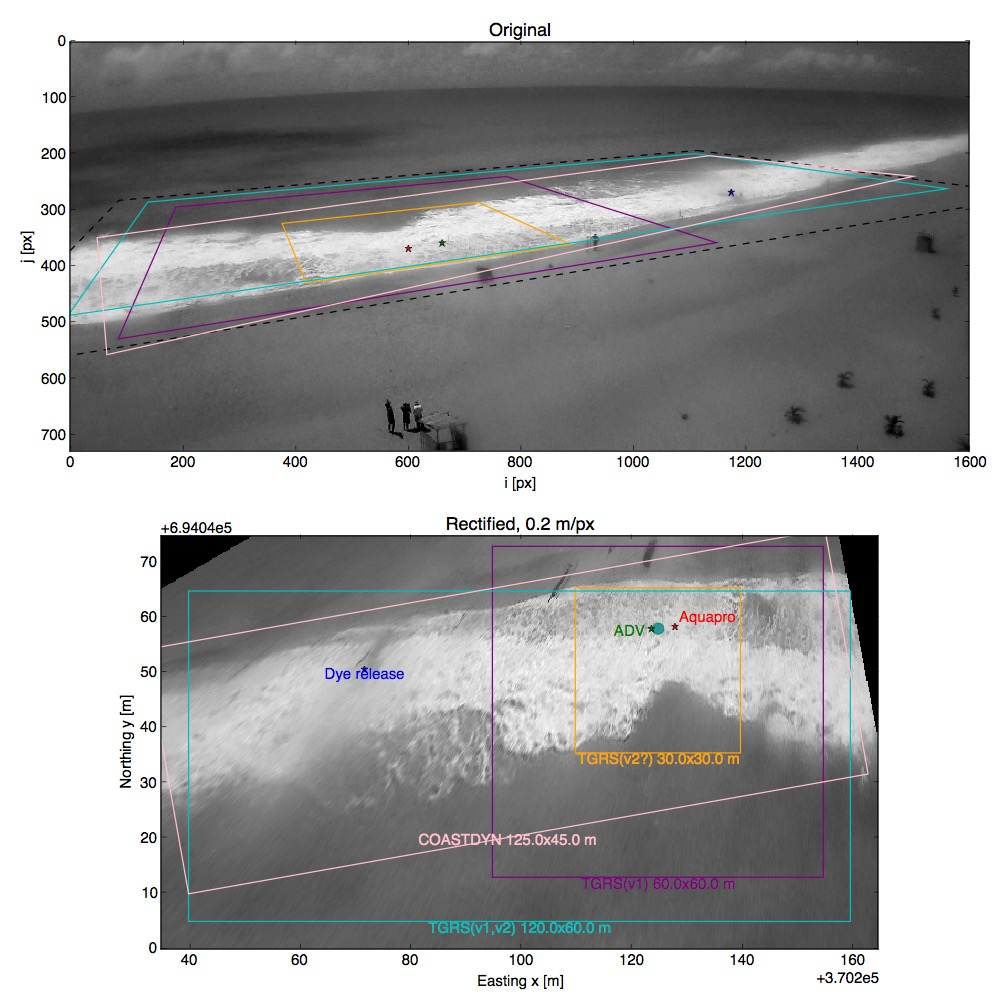
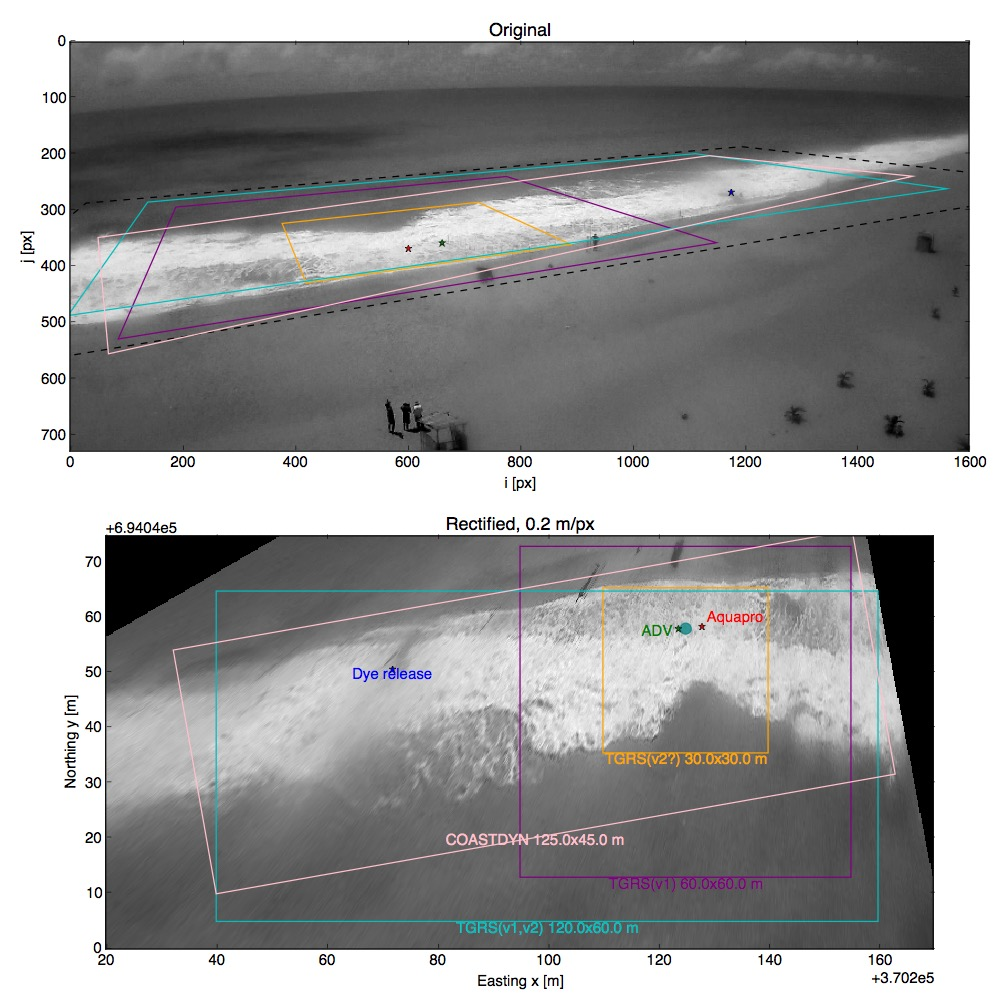
added fields downsascaling

diff --git a/estimator.py b/estimator.py
@@ -36,7 +36,7 @@ import matplotlib
 import matplotlib.pyplot as pyplot
 import numpy
 import scipy.io as io
-import skimage.io as skio
+import scipy.interpolate as interpolate
 ###
 from config import *
 
@@ -250,7 +250,7 @@ def get_fixed_length(message, fixedSize):
 ###### ESTIMATION FUNCTION #####
 ################################
 def estimate(infofile, serverPort, outputdir=None, comment='', verbose=True,
-             save_probe=True, save_fields=False):
+             save_probe=True, save_fields=True, coarse_resolution=1.):
 
     #-load data
     ###########
@@ -263,11 +263,11 @@ def estimate(infofile, serverPort, outputdir=None, comment='', verbose=True,
     datapath, _ = os.path.split(infofile)
     # some parameters
     width = jsondata['width']
-    height = jasondata['height']
+    height = jsondata['height']
     n_frames = jsondata['numberFrame']
     tstart = datetime.datetime.strptime(jsondata['startTime'], '%Y-%m-%d %H:%M:%S')
     # the grid
-    # Note: generate suing the function in config.py
+    # Note: generate using the function in config.py
     # the dimensions should match 'width', 'height' attributes of jsondata.
     dx = jsondata['gridResolution']
     xx, yy = domain_grid(jsondata['gridOrigin'], jsondata['gridDimensions'],
@@ -275,36 +275,55 @@ def estimate(infofile, serverPort, outputdir=None, comment='', verbose=True,
     if xx.shape[0]!=height or xx.shape[1]!=width:
         print 'Generated grid does not match image size! Abort.'
         sys.exit(-1) 
-    # the probe
-    is_probed = ((xx - AVG_PROBE['x'])**2 + (yy - AVG_PROBE['y'])**2) <= AVG_PROBE['r']**2
 
     #-initialize timeseries data structure
     ######################################
-    result_timeseries = {
-        'method': 'wavelet-based optical flow (WOF) - (cu)Typhoon algorithm',
-        'author': 'Pierre DDERIAN',
-        'website': 'www.pierrederian.net',
-        'createdBy': __file__,
-        'description': 'Apparent displacements in [pixel] estimated by (cu)Typhoon between images pairs contained in "sourceData". The image reference is used: origin is top-left, x positive towards right and y positive towards bottom. Displacements can be converted to (approximations of) instantaneous velocities by multiplying "ux" and "uy" by "dx"/"dt".',
-        'comment': comment,
-        'sourceData': os.path.basename(infofile),
-        'label': jsondata['label'],
-        'probe': AVG_PROBE,
-        'ux': [],
-        'uy': [],
-        't': [],
-        'dt': [],
-        'dx': jsondata['resolution'],
-        }
+    if save_probe:
+        if verbose:
+            print "Results will be save as timeseries in .json archive."
+        # the probe
+        is_probed = ((xx - AVG_PROBE['x'])**2 + (yy - AVG_PROBE['y'])**2) <= AVG_PROBE['r']**2 
+        # the data structure
+        result_timeseries = {
+            'method': 'wavelet-based optical flow (WOF) - (cu)Typhoon algorithm',
+            'author': 'Pierre DDERIAN',
+            'website': 'www.pierrederian.net',
+            'createdBy': __file__,
+            'description': 'Apparent displacements in [pixel] estimated by (cu)Typhoon between images pairs contained in "sourceData". The image reference is used: origin is top-left, x positive towards right and y positive towards bottom. Displacements can be converted to (approximations of) instantaneous velocities by multiplying "ux" and "uy" by "dx"/"dt".',
+            'comment': comment,
+            'sourceData': os.path.basename(infofile),
+            'label': jsondata['label'],
+            'probe': AVG_PROBE,
+            'grid': {'origin': jsondata['gridOrigin'],
+                     'dimensions': jsondata['gridDimensions'],
+                     'rotation': jsondata['gridRotation'],
+                     'resolution': jsondata['gridResolution'],
+                     },
+            'ux': [],
+            'uy': [],
+            't': [],
+            'dt': [],
+            'dx': dx,
+            }
     
     #-initialize fields data structure
     ##################################
     if save_fields:
+        if verbose:
+            print "Results will be save as fields in .mat archive."
         # the coarse grid
-        dx_coarse = 1. # [TODO] as a parameter
+        dx_coarse = coarse_resolution
+        if dx_coarse<dx:
+            print "Decimated grid scale ({} m/px) should be greater than input image's ({} m/px). Abort.".format(dx_coarse, dx)
+            sys.exit(-1)
         xx_coarse, yy_coarse = domain_grid(jsondata['gridOrigin'], jsondata['gridDimensions'],
                                            jsondata['gridRotation'], dx_coarse)
         height_coarse, width_coarse = xx_coarse.shape
+        # the "regular grid" just for interpolators, in the image reference
+        x_fine = dx*numpy.arange(width)
+        y_fine = dx*numpy.arange(height)
+        x_coarse = dx_coarse*numpy.arange(width_coarse)
+        y_coarse = dx_coarse*numpy.arange(height_coarse)
         # the data structure
         result_fields = {
             'x': xx_coarse,
@@ -344,11 +363,11 @@ def estimate(infofile, serverPort, outputdir=None, comment='', verbose=True,
         if verbose:
             print "+++ Preprocessing..."
         # load source im0, im1
-        im0_src = skio.imread(os.path.join(datapath, jsondata['sourceImages'][k]))
-        im1_src = skio.imread(os.path.join(datapath, jsondata['sourceImages'][k+1]))
+        im0_src = pyplot.imread(os.path.join(datapath, jsondata['sourceImages'][k]))
+        im1_src = pyplot.imread(os.path.join(datapath, jsondata['sourceImages'][k+1]))
         # load filtered im0, im1
-        im0_filt = skio.imread(os.path.join(datapath, jsondata['filteredImages'][k]))
-        im1_filt = skio.imread(os.path.join(datapath, jsondata['filteredImages'][k+1]))
+        im0_filt = pyplot.imread(os.path.join(datapath, jsondata['filteredImages'][k]))
+        im1_filt = pyplot.imread(os.path.join(datapath, jsondata['filteredImages'][k+1]))
         # get the difference
         im0_preproc = im0_src.astype(SEND_DTYPE) - im0_filt.astype(SEND_DTYPE)
         im1_preproc = im1_src.astype(SEND_DTYPE) - im1_filt.astype(SEND_DTYPE)
@@ -406,19 +425,25 @@ def estimate(infofile, serverPort, outputdir=None, comment='', verbose=True,
             # the time of img0 and the time step
             t_img0 = tstart + datetime.timedelta(seconds=jsondata['frameTimestamps'][k])
             dt_img = jsondata['frameTimestamps'][k+1] - jsondata['frameTimestamps'][k]
-            # append estimate to result_timeseries
-            result_timeseries['ux'].append(numpy.mean(Ux[is_probed]))
-            result_timeseries['uy'].append(numpy.mean(Uy[is_probed]))
-            # and the corresponding time (of img0) and time step (between image pair)
-            result_timeseries['t'].append(t_img0.strftime('%Y-%m-%d %H:%M:%S.%f'))
-            result_timeseries['dt'].append(dt_img)
+            if save_probe:
+                # append estimate to result_timeseries
+                result_timeseries['ux'].append(numpy.mean(Ux[is_probed]))
+                result_timeseries['uy'].append(numpy.mean(Uy[is_probed]))
+                # and the corresponding time (of img0) and time step (between image pair)
+                result_timeseries['t'].append(t_img0.strftime('%Y-%m-%d %H:%M:%S.%f'))
+                result_timeseries['dt'].append(dt_img)
             # and to result fields
             if save_fields:
+                # interpolate motion to coarse grid and store in result
+                # Note: the coordinates order is the same as numpy's dimensions       
+                interpolator = interpolate.RectBivariateSpline(y_fine, x_fine, Ux)
+                result_fields['ux'][k] = interpolator(y_coarse, x_coarse, grid=True)
+                interpolator = interpolate.RectBivariateSpline(y_fine, x_fine, Uy)
+                result_fields['uy'][k] = interpolator(y_coarse, x_coarse, grid=True)
                 # and the corresponding time (of img0) and time step (between image pair)
                 result_fields['t'].append(t_img0.strftime('%Y-%m-%d %H:%M:%S.%f'))
-                result_fields['dt'].append(dt_img)   
-                # [TODO] interpolate motion to coarse grid               
-                
+                result_fields['dt'].append(dt_img)
+            
             # [DEBUG] display
             if 0:
                 dimY, dimX = Ux.shape
@@ -451,12 +476,19 @@ def estimate(infofile, serverPort, outputdir=None, comment='', verbose=True,
     ###############
     if outputdir is not None:
         basename, _ = os.path.splitext(os.path.basename(infofile))
-        outputfile = os.path.join(outputdir, '{}_{}probe.json'.format(
-            jsondata['label'], jsondata['prefix']))
-        with open(outputfile, 'w') as f:
-            json.dump(result_timeseries, f, indent=0)
-        if verbose:
-            print 'Saved motion timeseries archive {}'.format(outputfile)
+        if save_probe:
+            outputfile = os.path.join(outputdir, '{}_{}probe.json'.format(
+                jsondata['label'], jsondata['prefix']))
+            with open(outputfile, 'w') as f:
+                json.dump(result_timeseries, f, indent=0)
+            if verbose:
+                print 'Saved motion timeseries archive {}'.format(outputfile)
+        if save_fields:
+            outputfile = os.path.join(outputdir, '{}_{}fields.mat'.format(
+                jsondata['label'], jsondata['prefix']))
+            io.savemat(outputfile, result_fields)
+            if verbose:
+                print 'Saved motion fields archive {}'.format(outputfile)
 
 ##################################
 ###### POSTPROCESS FUNCTIONS #####
@@ -509,7 +541,18 @@ where
     parser.add_argument("-q", "--quiet", dest="verbose", help="enable quiet mode", action="store_false")
     parser.add_argument("-o", "--output", default=None, dest="outputDir", help=".mat output directory")
     parser.add_argument("-c", "--comment", default='', dest="comment", help="optional comment to be included to the archive")
-    parser.set_defaults(verbose=True, stopServer=False)
+    parser.add_argument("--probe", dest="save_probe", action="store_true",
+                        help="save probe timeseries (default)")
+    parser.add_argument("--no-probe", dest="save_probe", action="store_false",
+                        help="do NOT save probe timeseries")
+    parser.add_argument("--fields", dest="save_fields", action="store_true",
+                        help="save fields as .mat")
+    parser.add_argument("--no-fields", dest="save_fields", action="store_false",
+                        help="do NOT save fields as .mat (default)")
+    parser.add_argument("-r", "--resolution", default=0.5, type=float, dest="coarse_res",
+                        help="coarse resolution [m/px] of the output fields, with --fields.")
+                        
+    parser.set_defaults(verbose=True, stopServer=False, save_probe=True, save_fields=False)
     args = parser.parse_args(argv)
 
     #-welcome
@@ -527,7 +570,8 @@ where
         raise RuntimeError("no data files were provided!")
     for infofile in args.infofiles:
         estimate(infofile, args.serverPort, outputdir=args.outputDir,
-        comment=args.comment, verbose=args.verbose)
+        comment=args.comment, verbose=args.verbose, save_probe=args.save_probe,
+        save_fields=args.save_fields, coarse_resolution=args.coarse_res)
 
     #-stop server?
     ##############

diff --git a/preprocessor.py b/preprocessor.py
@@ -475,8 +475,8 @@ if __name__=="__main__":
 
     preprocessor = DataPreprocessor(
         H=DEFAULT_H,
-        origin=(370235., 694040.),
-        dimensions=(130., 75.),
+        origin=(370220., 694040.),
+        dimensions=(150., 75.),
         rotation=0.,
         resolution=0.2,
         )

diff --git a/README.md b/README.md
@@ -5,15 +5,17 @@ This set of scripts handles the **processing of Grand Popo** shore-based video d
 - frame extraction from video file;
 - rectification;
 - filtering;
-- output frames as images or NetCDf archive.
+- output frames as images;
+- motion estimation through Typhoon;
+- output estimate as time-series and/or fields;
+- create the figures.
 
 ## Requirements
-- Scientific Python distribution including numpy, scipy, matplotlib, skimage. E.g. [Anaconda](https://www.continuum.io/downloads), [Canopy](https://www.enthought.com/products/canopy/);
+- Scientific Python distribution including numpy, scipy, matplotlib, pandas. E.g. [Anaconda](https://www.continuum.io/downloads), [Canopy](https://www.enthought.com/products/canopy/);
 - FFMPEG for frames extraction;
-- [Typhoon estimator](www.pierrederian.net/typhoon.html).
+- [Typhoon estimator](http://www.pierrederian.net/typhoon.html).
 
 ## Experiment configuration
-
 ![Grand Popo experiment configuration][resources/grandpopo_config.jpg]
 
 
